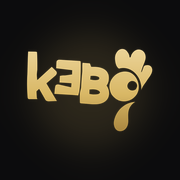
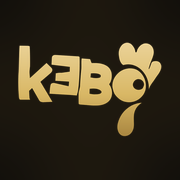
Kasa raporu Kaydet duzeltmesi + yeni Kebo simgesi (10.11)

Changed region(s): [[0.0833, 0.2222, 0.9167, 0.7778]]

diff --git a/app/raporlar/page.tsx b/app/raporlar/page.tsx
@@ -2079,7 +2079,9 @@ export default function RaporlarPage() {
   const handleRaporKaydet = async (e: React.FormEvent) => {
     e.preventDefault();
     // Kontrol adımına gelmeden (ör. bir kutuda Enter'a basınca) kayıt yapılmaz; bir sonraki adıma geçilir.
-    if (!isReadOnly && adim < 4) { adimaGit(adim + 1); return; }
+    // 10.11.2026: "Evet, kaydet" (kayitOnay açık) her adımda gerçekten kaydeder; eskiden 1–3. adımda
+    // sadece Kontrol'e geçiyordu ve kullanıcı kaydedildi sanıp sayfayı yenileyince girdiği kayboluyordu.
+    if (!isReadOnly && adim < 4 && !kayitOnay) { adimaGit(adim + 1); return; }
     // Son onay: önce "Raporu Kaydet", sonra "Evet, kaydet"
     if (!kayitOnay) { setKayitOnay(true); return; }
     setKayitOnay(false);
@@ -3956,7 +3958,7 @@ export default function RaporlarPage() {
                     </button>
                   </>) : (<>
                     {(
-                      <button key="kaydet" type="button" onClick={() => setKayitOnay(true)} disabled={saving || !!kayitEngeli} title={kayitEngeli || undefined}
+                      <button key="kaydet" type="button" onClick={() => { if (adim < 4) adimaGit(4); setKayitOnay(true); }} disabled={saving || !!kayitEngeli} title={kayitEngeli || undefined}
                         className="flex-[2] h-14 rounded-xl kebo-btn-altin text-[#1a1408] text-[16px] font-black hover:brightness-110 disabled:opacity-40 flex items-center justify-center gap-2">
                         <Save size={16}/> {selectedRapor ? "Kaydet" : "Raporu Kaydet"}
                       </button>

diff --git a/app/layout.tsx b/app/layout.tsx
@@ -12,10 +12,10 @@ export const metadata: Metadata = {
   appleWebApp: { capable: true, title: "KEBO", statusBarStyle: "black" },
   icons: {
     icon: [
-      { url: "/icon-192.png", sizes: "192x192", type: "image/png" },
-      { url: "/icon-512.png", sizes: "512x512", type: "image/png" },
+      { url: "/icon-192.png?v=2", sizes: "192x192", type: "image/png" },
+      { url: "/icon-512.png?v=2", sizes: "512x512", type: "image/png" },
     ],
-    apple: [{ url: "/apple-touch-icon.png", sizes: "180x180" }],
+    apple: [{ url: "/apple-touch-icon.png?v=2", sizes: "180x180" }],
   },
 };
 
